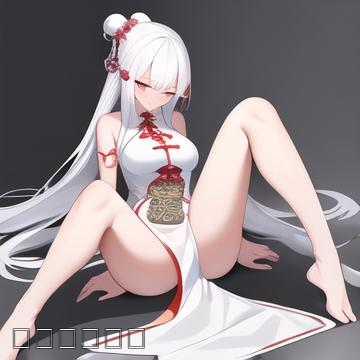
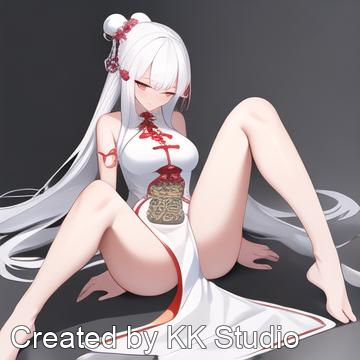
update

Changed region(s): [[0.0306, 0.8861, 0.8556, 1.0]]

diff --git a/img_util.py b/img_util.py
@@ -30,7 +30,7 @@ def add_watermark(input_image, watermark_text):
     width, height = image.size
 
     # Position the watermark
-    text_width, text_height = 30, 30
+    text_width, text_height = 20, 20
     x = 10  # 10 pixels padding
     y = height - text_height - 10
 
@@ -38,4 +38,4 @@ def add_watermark(input_image, watermark_text):
     d.text((x, y), watermark_text, fill=(255, 255, 255, 255), font=font, stroke_fill=(3,3,3,128), stroke_width=1)
     watermarked = Image.alpha_composite(image.convert('RGBA'), transparent)
 
-    return watermarked
+    return watermarked.convert('RGB')

diff --git a/test.py b/test.py
@@ -2,5 +2,5 @@ import img_util as imgUtil
 from PIL import Image
 
 img = Image.open('g2.png')
-img2 = imgUtil.add_watermark(img, "作者：工作室")
+img2 = imgUtil.add_watermark(img, "Created by KK Studio")
 img2.save("result.png")
